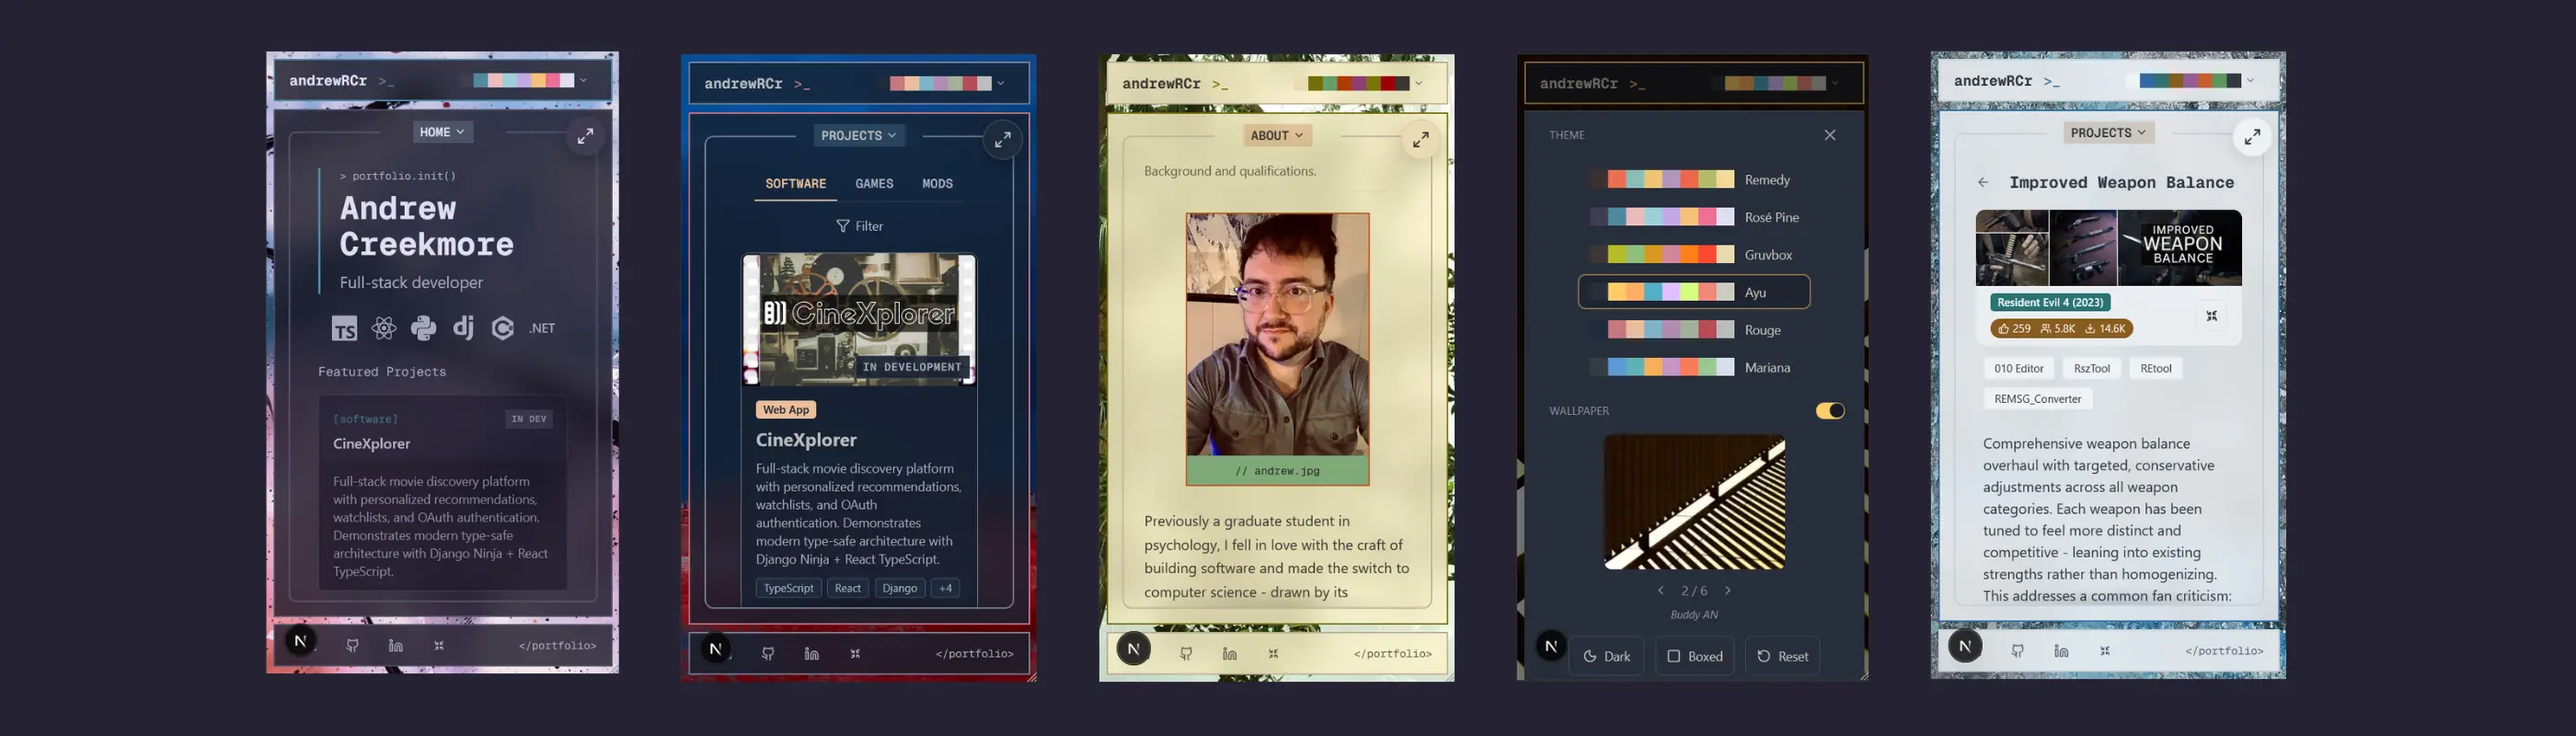
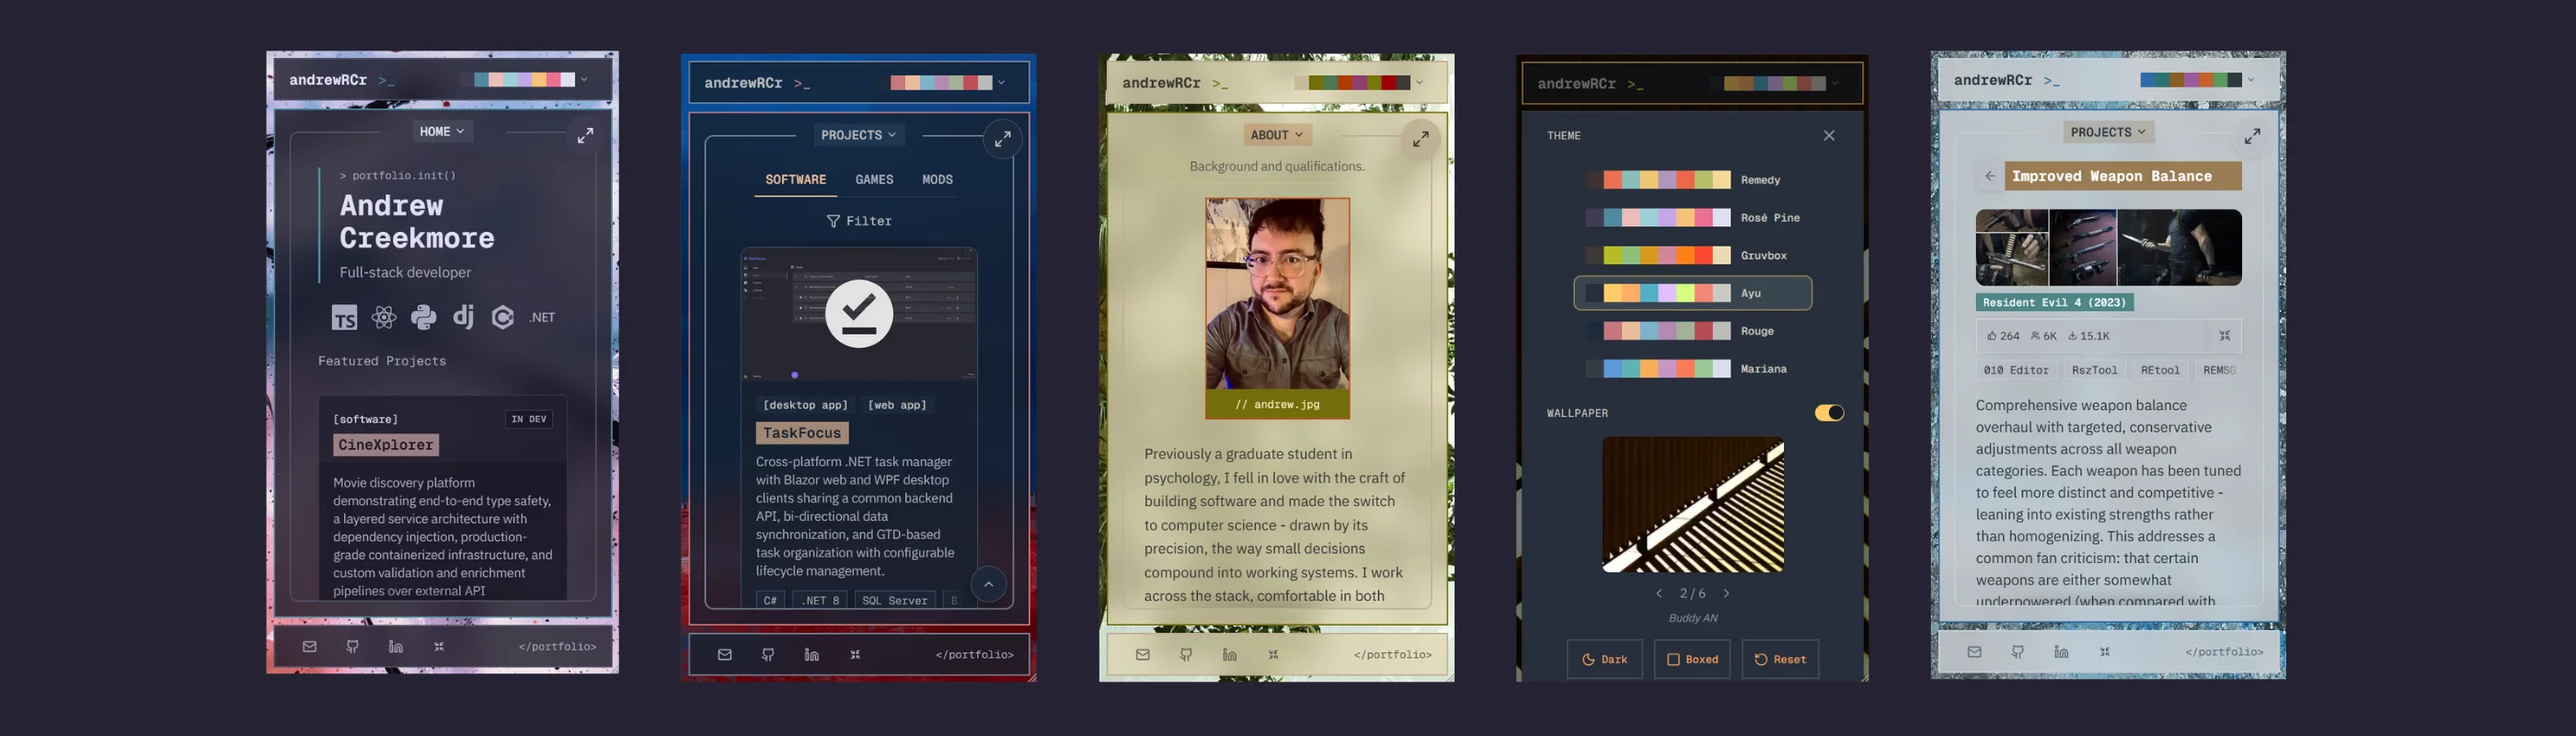
docs(readme): rewrite README for public-facing portfolio
Lean, showcase-focused README drawing from iterated project data.
Hero banner image, feature highlights, compact tech table, license.
Omitted local dev setup, project structure, and CI sections per
portfolio README conventions (not idiomatic for showcase repos).
Updated hero and thumbnail images (removed dev tools overlay).

Context: tasks-launch-preparation.md (Task 5.4)

diff --git a/README.md b/README.md
@@ -1,55 +1,47 @@
 # andrewRCr Portfolio
 
-A modern developer portfolio website built with Next.js 15, showcasing professional projects, technical skills, and
-software engineering capabilities. This portfolio demonstrates a blend of traditional computer science fundamentals
-and contemporary AI-assisted development practices.
+A developer portfolio engineered as a production application. All content — project data, theme
+definitions, and site configuration — flows through typed, validated data models. The multi-theme
+design system persists user preferences to cookies via Server Actions, preventing flash of unstyled
+content on page load. Accessibility is validated by automated testing across the component library
+and every theme combination.
 
-## Technology Stack
+**Live:** [andrewcreekmore.dev](https://andrewcreekmore.dev)
 
-### Core Framework
+<div align="center">
+  <img alt="Portfolio preview across multiple pages and themes"
+    src="public/readme-hero.png" width="95%"/>
+</div>
 
-- **[Next.js 16](https://nextjs.org/)** - Full-stack React framework with App Router and Server Components
-- **[React 19](https://react.dev/)** - UI library with latest features
-- **[TypeScript 5.x](https://www.typescriptlang.org/)** - Type safety and enhanced developer experience
+## Highlights
 
-### Styling & UI
+- Type-safe content architecture with validated data models for project data, theme definitions,
+  and site configuration
+- Theme system built on semantic design tokens for color and layout, with WCAG AA contrast
+  validation across all combinations
+- Automated accessibility auditing with vitest-axe integrated across component test suites
+- Responsive layouts with distinct compositions across viewports — CSS-only breakpoints for
+  hydration safety
+- Orchestrated animation system with centralized timing driving intro sequences, page transitions,
+  and shared element morphing
+- Built with [ARC Framework](https://github.com/andrewRCr/arc-agentic-dev-framework) — a
+  spec-driven development methodology emphasizing focused human-agent collaboration
 
-- **[Tailwind CSS v4](https://tailwindcss.com/)** - Utility-first CSS framework with CSS variables for theming
-- **[Shadcn/ui](https://ui.shadcn.com/)** - Accessible component primitives built on Radix UI
-- **[Lucide React](https://lucide.dev/)** - Icon library for consistent iconography
-- **[Framer Motion](https://www.framer.com/motion/)** - Animation library for smooth transitions and
-  micro-interactions
+## Technology
 
-### Form Handling & Validation
-
-- **[React Hook Form](https://react-hook-form.com/)** - Performant form state management with minimal re-renders
-- **[Zod](https://zod.dev/)** - TypeScript-first schema validation for forms and data
-
-### External Services
-
-- **[Zeptomail](https://www.zoho.com/zeptomail/)** - Transactional email service for contact form submissions
-- **[Vercel](https://vercel.com/)** - Zero-configuration deployment with global CDN
-- **[GitHub Actions](https://github.com/features/actions)** - Continuous integration and quality gates
-
-## Development Framework
-
-This project uses the **ARC (Agentic Recursive Coordination)** development framework for systematic documentation
-and workflow management in AI-assisted development. ARC provides constitutional documents (META-PRD,
-TECHNICAL-ARCHITECTURE, DEVELOPMENT-RULES, PROJECT-STATUS) and structured workflows for feature planning and
-implementation.
-
-Learn more about the ARC framework: [arc-agentic-dev-framework](https://github.com/andrewRCr/arc-agentic-dev-framework)
+| | |
+| --- | --- |
+| Framework | Next.js 16, React 19, TypeScript 5 (strict mode) |
+| Styling | Tailwind CSS v4, Shadcn/ui, Framer Motion |
+| Testing | Vitest, React Testing Library, Playwright |
+| Infrastructure | Vercel, GitHub Actions CI, Upstash Redis |
 
 ## License
 
 **Dual License:**
 
-- **Code**: MIT License - Source code is open source and free to use
-- **Content**: CC BY-NC 4.0 - Portfolio content (text, images, assets) requires attribution and is for
-  non-commercial use
+- **Code:** MIT License — source code is open source and free to use
+- **Content:** CC BY-NC 4.0 — portfolio content (text, images, assets) requires attribution
+  and is for non-commercial use
 
 See [LICENSE](LICENSE) for full details.
-
----
-
-_Built with React 19, Next.js 16, TypeScript, Tailwind CSS v4, and deployed on Vercel._
